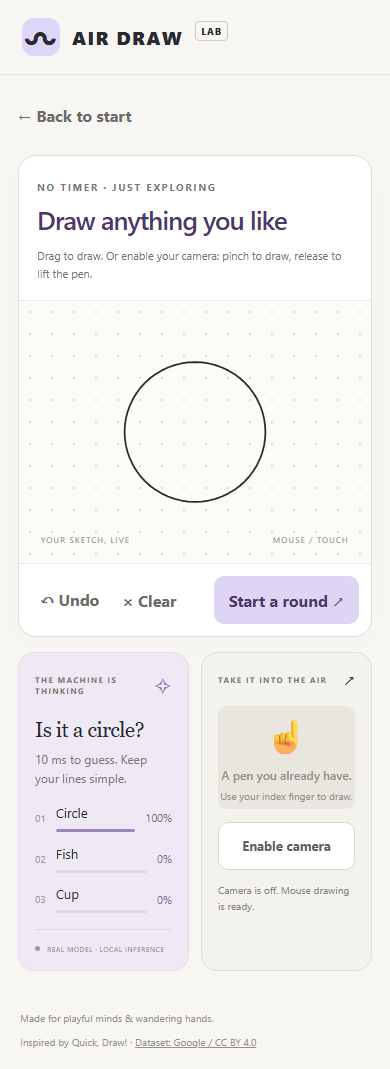
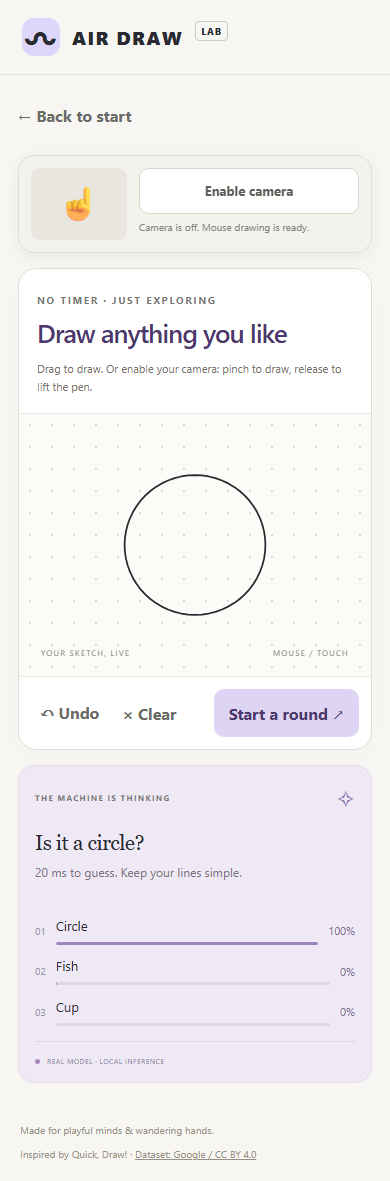
Complete checkpoint 6 and improve camera placement

diff --git a/web/tests/rounds.spec.ts b/web/tests/rounds.spec.ts
@@ -1,0 +1,175 @@
+import { test, expect, type Page } from '@playwright/test'
+
+// The real worker/model runs in every test. Timing and error tests can hold
+// responses and deliver controlled scores to exercise game rules precisely.
+async function start(page: Page, hold = false) {
+  await page.addInitScript(({ hold }) => {
+    Math.random = () => 0 // circle first, triangle next (no immediate repeats).
+    const NativeWorker = window.Worker
+    const state = (window as any).roundTest = {
+      hold, requests: [] as any[], replies: [] as any[], pending: [] as any[],
+      deliver: (_data: any) => {}, fail: () => {},
+    }
+    window.Worker = function(url: string | URL, options?: WorkerOptions) {
+      const worker = new NativeWorker(url, options)
+      if (String(url).includes('inference.worker')) {
+        const send = worker.postMessage.bind(worker)
+        worker.postMessage = (data: any) => {
+          if (data.type === 'predict') state.requests.push(structuredClone(data))
+          send(data)
+        }
+        worker.addEventListener('message', e => {
+          if (e.data.type !== 'prediction') return
+          state.replies.push({ data: e.data, at: performance.now() })
+          if (state.hold) { state.pending.push(e.data); e.stopImmediatePropagation() }
+        })
+        state.deliver = (data: any) => worker.onmessage?.call(worker, new MessageEvent('message', { data }))
+        state.fail = () => state.deliver({ type: 'error', message: 'Test inference failure' })
+      }
+      return worker
+    } as unknown as typeof Worker
+  }, { hold })
+  await page.goto('/')
+  await expect(page.locator('#begin')).toBeEnabled({ timeout: 60000 })
+  await page.locator('#begin').click()
+  await expect(page.locator('#prompt')).toHaveText('Draw a circle')
+}
+
+async function circle(page: Page) {
+  const b = (await page.locator('#canvas').boundingBox())!
+  await page.mouse.move(b.x + b.width * .7, b.y + b.height * .5)
+  await page.mouse.down()
+  for (let i = 1; i <= 64; i++) {
+    const a = i / 64 * Math.PI * 2
+    await page.mouse.move(b.x + b.width * (.5 + .2 * Math.cos(a)), b.y + b.height * (.5 + 4 / 15 * Math.sin(a)))
+  }
+  await page.mouse.up()
+}
+
+test('real model wins a round, freezes ink, and Next round resets without repeating the prompt', async ({ page }) => {
+  await start(page)
+  await circle(page)
+  await expect(page.locator('#result')).toContainText("Got it! That's a circle", { timeout: 15000 })
+  await expect(page.locator('#start')).toContainText('Next round')
+  const evidence = await page.evaluate(() => (window as any).roundTest)
+  expect(evidence.requests.every((r: any) => !('target' in r))).toBe(true)
+  const correct = evidence.replies.filter((r: any) => r.data.probabilities[0] >= .65)
+  expect(correct.length).toBeGreaterThanOrEqual(2)
+  expect(correct.at(-1).at - correct[0].at).toBeGreaterThanOrEqual(800)
+  const ink = await page.locator('#canvas').evaluate((c: HTMLCanvasElement) => c.toDataURL())
+  await circle(page)
+  expect(await page.locator('#canvas').evaluate((c: HTMLCanvasElement) => c.toDataURL())).toBe(ink)
+  await page.locator('#start').click()
+  await expect(page.locator('#prompt')).toHaveText('Draw a triangle')
+  await expect(page.locator('#seconds')).toHaveText('30')
+  await expect(page.locator('#result')).toBeHidden()
+  await expect(page.locator('#clear')).toBeDisabled()
+  await expect(page.locator('#guesses')).toContainText('A few lines')
+})
+
+test('late responses from an earlier round cannot change the new round or home screen', async ({ page }) => {
+  await start(page, true)
+  await circle(page)
+  await expect.poll(() => page.evaluate(() => (window as any).roundTest.pending.length)).toBeGreaterThan(0)
+  await page.locator('#start').click()
+  await circle(page) // New ink must not make the old reply eligible again.
+  await page.evaluate(() => {
+    const s = (window as any).roundTest
+    s.deliver(s.pending[0])
+  })
+  await expect(page.locator('#guess-title')).toHaveText('I see possibilities.')
+  await expect(page.locator('#result')).toBeHidden()
+  await expect(page.locator('#prompt')).toHaveText('Draw a triangle')
+  await page.locator('#home').click()
+  await page.evaluate(() => { const s = (window as any).roundTest; s.deliver(s.pending[0]) })
+  await expect(page.locator('#game')).toBeHidden()
+  await page.locator('#practice').click()
+  await expect(page.locator('#guesses')).toContainText('A few lines')
+})
+
+test('correct predictions require confidence and sustained fresh agreement', async ({ page }) => {
+  await start(page, true)
+  await circle(page)
+  await expect.poll(() => page.evaluate(() => (window as any).roundTest.pending.length)).toBeGreaterThan(0)
+  await page.clock.install()
+  await page.clock.pauseAt(new Date())
+  async function score(probability: number, wrong = false) {
+    await page.evaluate(({ probability, wrong }) => {
+      const s = (window as any).roundTest
+      const request = s.requests.at(-1)
+      const probabilities = Array(10).fill((1 - probability) / 9)
+      probabilities[wrong ? 1 : 0] = probability
+      s.deliver({ type: 'prediction', round: request.round, revision: request.revision, probabilities, ms: 1 })
+    }, { probability, wrong })
+  }
+  await score(.64)
+  await page.clock.runFor(900)
+  await score(.64)
+  await expect(page.locator('#result')).toBeHidden()
+  await score(.99)
+  await page.clock.runFor(450)
+  await score(.99, true) // Wrong observations discard accumulated agreement.
+  await page.clock.runFor(450)
+  await score(.99)
+  await expect(page.locator('#result')).toBeHidden()
+  await page.clock.runFor(1300) // A stale gap also discards agreement.
+  await score(.99)
+  await expect(page.locator('#result')).toBeHidden()
+  await page.clock.runFor(850)
+  await score(.99)
+  await expect(page.locator('#result')).toContainText('Got it!')
+})
+
+test('deadline beats a delayed correct response and restart clears the result', async ({ page }) => {
+  await start(page, true)
+  await page.clock.install()
+  await page.clock.fastForward(20000)
+  await circle(page)
+  await expect.poll(() => page.evaluate(() => (window as any).roundTest.pending.length)).toBeGreaterThan(0)
+  await page.clock.fastForward(11000)
+  await page.evaluate(() => { const s = (window as any).roundTest; s.deliver(s.pending[0]) })
+  await expect(page.locator('#result')).toContainText("Time's up!")
+  await expect(page.locator('#seconds')).toHaveText('0')
+  await page.locator('#start').click()
+  await expect(page.locator('#result')).toBeHidden()
+  await expect(page.locator('#seconds')).toHaveText('30')
+})
+
+test('inference failure stops the round, ignores late replies, and leaves drawing usable', async ({ page }) => {
+  await start(page, true)
+  await circle(page)
+  await expect.poll(() => page.evaluate(() => (window as any).roundTest.pending.length)).toBeGreaterThan(0)
+  // Drain a possibly partial-stroke response so the next reply matches final ink.
+  await page.evaluate(() => { const s = (window as any).roundTest; s.deliver(s.pending[0]) })
+  await expect.poll(() => page.evaluate(() => (window as any).roundTest.pending.length)).toBeGreaterThan(1)
+  await page.evaluate(() => {
+    const s = (window as any).roundTest
+    s.fail(); s.deliver(s.pending.at(-1))
+  })
+  await expect(page.locator('#result')).toContainText('Round stopped')
+  await expect(page.locator('#model-status')).toContainText('Recognition unavailable')
+  await expect(page.locator('#start')).toBeDisabled()
+  await page.locator('#clear').click()
+  await circle(page)
+  await expect(page.locator('#clear')).toBeEnabled()
+})
+
+test('camera is beside the board on desktop and a compact dock above it on mobile', async ({ page }) => {
+  await start(page)
+  const desktopCamera = (await page.locator('.camera-panel').boundingBox())!
+  const desktopBoard = (await page.locator('.play-area').boundingBox())!
+  const desktopGuess = (await page.locator('.guess-panel').boundingBox())!
+  expect(desktopCamera.x).toBeGreaterThanOrEqual(desktopBoard.x + desktopBoard.width)
+  expect(desktopCamera.y).toBeLessThan(desktopGuess.y)
+  await page.setViewportSize({ width: 390, height: 844 })
+  const camera = (await page.locator('.camera-panel').boundingBox())!
+  const canvas = (await page.locator('#canvas').boundingBox())!
+  expect(camera.y + camera.height).toBeLessThanOrEqual(canvas.y)
+  expect(camera.height).toBeLessThan(150)
+  expect(await page.evaluate(() => document.documentElement.scrollWidth <= innerWidth)).toBe(true)
+  await page.locator('#camera').click()
+  await expect(page.locator('#camera')).toHaveText('Disable camera', { timeout: 60000 })
+  await page.screenshot({ path: '../docs/camera-mobile.png', fullPage: true })
+  await page.evaluate(() => scrollTo(0, 240))
+  expect((await page.locator('.camera-panel').boundingBox())!.y).toBeGreaterThanOrEqual(0)
+})

diff --git a/web/src/start-screen.css b/web/src/start-screen.css
@@ -25,6 +25,12 @@
 .drawing-view .prompt-bar h2 { font-size: clamp(26px, 3vw, 36px); letter-spacing: -1px; color: #4c386d; }
 .drawing-instructions { font-size: 12px; line-height: 1.6; color: #77716a; max-width: 430px; margin: 10px 0 0; }
 #prompt:focus { outline: none; }
+/* Keep camera setup next to the drawing area, ahead of the guesses. */
+.game { grid-template-rows: auto 1fr; }
+.game > aside { display: contents; }
+.play-area { grid-column: 1; grid-row: 1 / span 2; }
+.camera-panel { grid-column: 2; grid-row: 1; }
+.guess-panel { grid-column: 2; grid-row: 2; }
 @media (max-width: 700px) {
   .welcome { padding: 30px 18px 24px; }
   .welcome h2 { font-size: 38px; }
@@ -34,4 +40,18 @@
   .board-nav > span { display: none; }
   .drawing-view .prompt-bar { align-items: flex-start; }
   .drawing-instructions { font-size: 11px; }
+  .game { grid-template-rows: auto auto auto; }
+  .play-area { grid-column: 1; grid-row: 2; }
+  .guess-panel { grid-column: 1; grid-row: 3; }
+  .camera-panel {
+    grid-column: 1; grid-row: 1; display: grid;
+    grid-template-columns: 96px minmax(0, 1fr); column-gap: 12px;
+    padding: 12px; position: sticky; top: 8px; z-index: 3;
+    box-shadow: 0 4px 16px #292b3110;
+  }
+  .camera-panel .panel-heading { display: none; }
+  .camera-panel .preview { grid-column: 1; grid-row: 1 / span 2; margin: 0; align-self: center; }
+  .camera-panel .camera-button { grid-column: 2; grid-row: 1; min-height: 40px; }
+  .camera-panel p { grid-column: 2; grid-row: 2; margin: 5px 0 0; font-size: 10px; }
+  .camera-panel #camera-placeholder strong, .camera-panel #camera-placeholder > span:last-child { display: none; }
 }

diff --git a/web/src/main.ts b/web/src/main.ts
@@ -120,6 +120,7 @@ $('start').onclick = startRound
 $('begin').onclick = startRound
 function modelError(message: string) {
   modelReady = false; inferenceBusy = false
+  inference.terminate()
   if (playing) { playing = false; finished = false; $('result').hidden = false; $('result').textContent = 'Round stopped because recognition is unavailable. Reload to retry; you can still sketch.' }
   $('model-status').textContent = `Recognition unavailable. Reload to retry. ${message}`
   $('start').textContent = 'Model unavailable'; $<HTMLButtonElement>('start').disabled = true
@@ -136,6 +137,7 @@ inference.onmessage = event => {
     $('welcome-status').textContent = 'Ready when you are. No camera required.'
   } else if (msg.type === 'error') modelError(msg.message)
   else if (msg.type === 'prediction') {
+    if (!modelReady) return
     inferenceBusy = false
     if (msg.round !== round || msg.revision !== drawing.revision || !drawing.hasInk || finished) return
     const predictions = (msg.probabilities as number[]).map((probability, index) => ({ label: CATEGORIES[index], probability })).sort((a,b) => b.probability - a.probability).slice(0,3)

diff --git a/CHECKPOINTS.md b/CHECKPOINTS.md
@@ -1,9 +1,7 @@
 # Checkpoint progress
 
-Work is limited to the requested scope. Checkpoint 5 is complete; the user then
-requested a clearer Start → drawing-prompt UI. That focused portion of checkpoint
-6 is implemented and verified. Stop after this UI change; broader game-loop
-completion remains pending. On 2026-10-02 the
+Checkpoint 6 is complete, including the requested camera placement improvement.
+Stop here; do not start checkpoint 7 until requested. On 2026-10-02 the
 user authorized pushing the existing state, then proceeding to checkpoint 5.
 Commit `ab8c66c` was previously pushed to `origin/main`. The user subsequently
 authorized pushing checkpoint 5 (`8f181c5`) and the UI follow-up (`91c556c`),
@@ -16,7 +14,7 @@ together with this progress-note update. Deployment remains out of scope.
 | 3 | Webcam air drawing with pinch control | Existing implementation preserved; pinch hysteresis and reset checks pass. Physical-camera behavior still needs a human smoke test. |
 | 4 | Dataset preparation, model training, and evaluation | Complete and verified. Full test accuracy 96.00%; partial test accuracy 89.95%. |
 | 5 | Real browser recognition for mouse and air drawings | Complete: eight Chromium recognition tests pass with real ONNX inference. Air-path tests use controlled landmarks; physical-hand accuracy remains a manual check. |
-| 6 | Complete game loop | Start-screen UI change complete; start, practice, timeout/restart and return-home checks pass. Full success/stale-round verification remains pending. |
+| 6 | Complete game loop | Complete: real-model win, confidence/freshness, deadline, next round, stale-round rejection, failure fallback and camera placement verified. |
 | 7 | Verification, documentation, and deployment preparation | Draft docs and tests preserved. Full verification deferred. |
 
 ## Scope and preserved work
@@ -62,11 +60,12 @@ and 30-second timer, or **Just practice** for untimed drawing. Drag on the canva
 try Undo and Clear. **Back to start** clears the round and stops the camera. Enable
 camera, grant permission, and pinch thumb to index to draw; separate them to
 lift the pen. Stop the server with Ctrl+C. Recognition has passed checkpoint 5
-browser checks; timed gameplay remains preserved for checkpoint 6 verification.
+browser checks; timed gameplay has now passed checkpoint 6. The camera sits beside
+the board on desktop and in a compact sticky panel above the board on mobile.
 
 ## Exact resume instructions
 
-After the user explicitly requests checkpoint 6:
+After the user explicitly requests checkpoint 7:
 
 1. Read this file and `docs/design.md`; inspect `git status --short` and preserve
    any new changes. Do not restart the project or retrain the verified model.
@@ -74,14 +73,42 @@ After the user explicitly requests checkpoint 6:
    on this machine), then run `npm.cmd --prefix web run build`.
 3. Stop the local preview below before Playwright starts its own server on 4173.
    Chromium is now installed. Run `npm.cmd --prefix web run test:browser`.
-4. Finish only the complete game loop: prompt selection, 30-second deadline,
-   stable correct recognition, win/timeout results, restart, and state resets.
-   Add meaningful missing success, stale-round and restart coverage. Existing
-   timer test in `web/tests/game.spec.ts` now passes, as do the new start-screen
-   tests. Broader success/stale-round coverage is still outstanding.
+4. Finish verification, documentation and deployment preparation. Review the
+   README, design/evaluation/deployment notes against actual behavior, verify
+   fresh-checkout reproduction and production asset paths, and record remaining
+   physical-camera and browser coverage limitations. Do not silently treat the
+   controlled landmark tests as a physical-hand recognition test.
 5. Run the relevant unit and browser checks, update this file, commit project-only
-   changes locally, and stop before checkpoint 7. Do not deploy or push additional
-   work unless requested.
+   changes locally, and stop. Do not deploy or push additional work unless requested.
+
+## Checkpoint 6 verification
+
+Camera controls now precede guesses beside the board on desktop. At widths up
+to 700px they become a compact sticky panel above the canvas, keeping the preview
+and toggle accessible while drawing. The mobile layout was checked visually in
+[the camera screenshot](docs/camera-mobile.png); its green camera image is
+Chromium's synthetic video feed, not a real user's camera.
+
+Six browser tests in `web/tests/rounds.spec.ts` cover:
+
+- A real ONNX circle prediction wins only after sustained agreement; ink freezes
+  after completion and Next round clears the board/results and changes the prompt.
+- Delayed replies from a previous round cannot update a new round or home screen.
+- Controlled scores verify the 65% threshold, wrong-guess reset, stale-gap reset,
+  and 800ms sustained agreement. The classifier still runs, but these timing-rule
+  cases intentionally control response delivery and scores.
+- The 30-second deadline wins over a late correct reply; restart resets the timer.
+- An inference failure stops the round but leaves sketching available. The worker
+  is now terminated on failure and later predictions are ignored, so a late reply
+  cannot replace the error with an apparently successful guess.
+- Desktop placement, mobile panel height/width, camera startup and sticky behavior.
+
+Production build passed. All 17 browser tests passed (1.3 minutes), and all five
+unit tests passed. The inference-failure regression was then tightened to deliver
+a reply matching the final ink and passed again (13.1s). Existing screenshots were
+refreshed. No training or dependency changes were needed. Physical-hand accuracy
+and testing beyond Chromium remain limitations for checkpoint 7; there are no
+known blocking checkpoint-6 issues.
 
 ## Requested UI follow-up
 
@@ -105,9 +132,9 @@ Screenshots: [start desktop](docs/start-desktop.png),
 Mobile start and board layouts were visually inspected. Existing desktop/mobile
 recognition screenshots were refreshed for the new practice view.
 
-This completes the requested UI change, not all checkpoint-6 verification.
-Physical-hand testing and broader game-loop success/stale-round scenarios remain
-as noted above. No model retraining, dependency changes, push or deployment.
+This earlier UI change was followed by the completed checkpoint-6 verification
+above. Physical-hand testing remains a manual check. No model retraining or
+dependency changes were needed.
 
 ## Checkpoint 5 verification (2026-10-02)
 
@@ -179,8 +206,8 @@ Completed checks:
 See [evaluation](docs/evaluation.md) for per-category results and limitations.
 The legacy ONNX exporter emitted a deprecation warning, but export and parity
 checks passed. No blocking checkpoint-4 issues remain. Browser recognition has
-since passed the checkpoint-5 checks above; physical-camera smoke testing and
-end-to-end gameplay remain unverified.
+since passed the checkpoint-5 checks above, and end-to-end gameplay passed
+checkpoint 6. Physical-camera smoke testing remains unverified.
 
 ## Processes and commits
 
@@ -188,16 +215,14 @@ Preparation, training, verification, installation and test processes have exited
 The earlier preview (session 71254) was stopped before browser testing. A local
 preview was restarted after tests at http://127.0.0.1:4173 using
 `npm.cmd --prefix web run preview -- --host 127.0.0.1 --port 4173 --strictPort`
-The checkpoint-5 preview (session 96746) was stopped for UI testing. The preview
-was restarted after the UI build; its current tool session is `72295`.
+The previous preview (session 72295) was stopped for checkpoint-6 testing. The
+preview was restarted after the completed checks; its current tool session is `62401`.
 Stop with Ctrl+C in that session, or identify the listener
 with `Get-NetTCPConnection -LocalPort 4173 -State Listen` and stop its owning
 process. This local preview is the only intentionally running project process.
-No deployment was performed. The current push includes checkpoint 5 (`8f181c5`),
-the UI follow-up (`91c556c`), and these updated progress notes. No checkpoint work
-was advanced during this push. Verify remote synchronization with
-`git rev-list --left-right --count origin/main...HEAD` (expected `0 0`).
+No deployment was performed. GitHub remains at `9b554d3` (checkpoint 5 and the
+start-screen UI). Checkpoint 6 is saved locally and has not been pushed.
 
-Local UI commit message: `Add a guided start screen before the drawing board`.
+Local checkpoint commit message: `Complete checkpoint 6 and improve camera placement`.
 Use `git log -1 --oneline` to find its commit ID (the ID is intentionally not
 embedded in the file it commits).

diff --git a/README.md b/README.md
@@ -4,7 +4,8 @@ Checkpoint status and exact continuation commands are in [CHECKPOINTS.md](CHECKP
 Checkpoint 5 browser recognition checks pass in Chromium: real mouse predictions,
 controlled air landmark input through the real classifier, camera worker startup
 and cleanup, and stale-result rejection. Physical-hand accuracy remains a manual
-check. The complete game loop is preserved for checkpoint 6 verification.
+check. Checkpoint 6 game-loop checks also pass: real-model wins, timed losses,
+restart/reset, confidence stability, stale replies and inference failures.
 
 A browser drawing game with mouse/touch input, webcam fingertip drawing, and a real ten-class CNN running locally. No backend, API key, or cloud inference. Inspired by Google's Quick, Draw!, not affiliated with Google.
 
@@ -27,6 +28,8 @@ Open **http://127.0.0.1:5173**. On another machine, install [Node.js LTS](https:
 
 1. Click **Start drawing** on the welcome screen. The board opens with a random drawing prompt and a 30-second timer. Choose **Just practice** for untimed sketching instead.
 2. Optionally click **Enable camera**, allow access, and hold one hand inside the preview. The preview and drawing movement are mirrored.
+   Camera controls sit beside the board on desktop and in a compact panel above
+   it on mobile; the mobile panel stays visible as you scroll to draw.
 3. Your index fingertip is the cursor. Bring thumb and index together to draw; separate them to lift the pen. Move to a new position with the pen up.
 4. Use **Undo** for the last stroke, **Clear** for a fresh canvas, and **Restart round** for a new prompt.
    **Back to start** returns to the welcome screen, clears the round, and turns off the camera.
